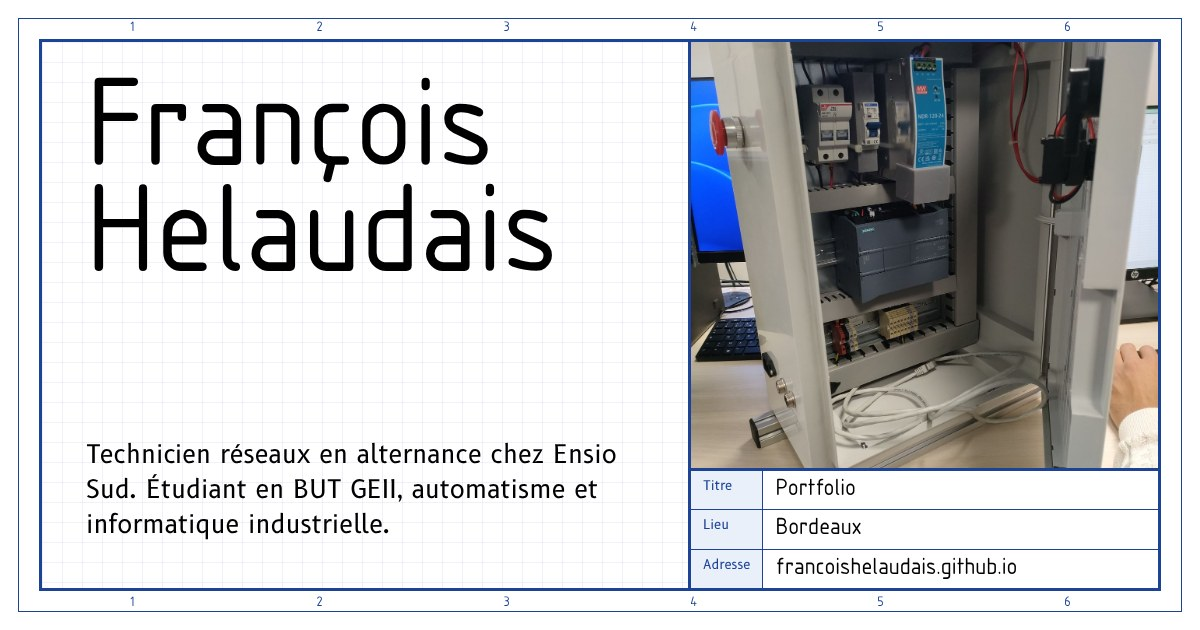
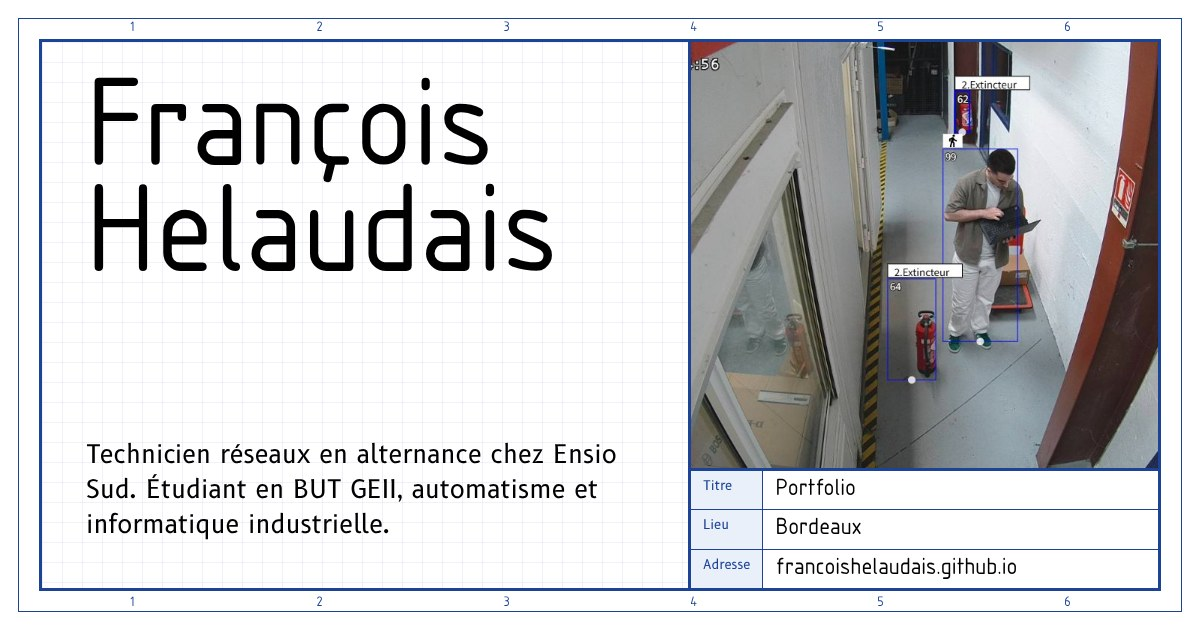
Photo d'ouverture : détection IA du stage, part réelle dans le kart, chiffres sourcés
- Ouverture : capture i-PRO annotée à la place de l'armoire Mugochaud
- Kart : mes sections d'après le DDC, chiffres repris du dossier
- Retrait du banc de contrôle d'accès (pas mon travail)
- SAE : programmation en cours ; aperçu de lien et CV mis à jour

Claude-Session: https://claude.ai/code/session_017d2tFZiNhoULnYTVToUJgT

Changed region(s): [[0.555, 0.0603, 0.9867, 0.754]]

diff --git a/index.html b/index.html
@@ -473,6 +473,9 @@ footer { padding: 26px 0 40px; font-size: 13px; color: var(--annot); display: fl
 
 .ac-niv { display: block; font-family: var(--texte); font-size: 11.5px; color: var(--annot); margin-top: 2px; }
 
+.hero-ia .repere text { font-size: 34px; }
+.hero-ia .repere line, .hero-ia .repere circle.bulle { stroke-width: 3.5; }
+
 @media print {
   .barre nav, .actions, summary { display: none; }
   details > .detail { display: grid; }
@@ -523,24 +526,20 @@ footer { padding: 26px 0 40px; font-size: 13px; color: var(--annot); display: fl
 
     <div class="garde-vue">
       <figure>
-        <div class="vue">
-          <img src="photos/mugochaud-2.jpg" width="1200" height="1600" alt="Armoire électrique ouverte du projet Mugochaud : automate, alimentation, disjoncteurs, arrêt d'urgence et bornier." fetchpriority="high">
-          <svg viewBox="0 0 1200 1600" preserveAspectRatio="xMidYMid slice" aria-hidden="true">
-            <g class="repere"><line x1="480" y1="740" x2="700" y2="860"/><circle class="point" cx="480" cy="740" r="10"/><circle class="bulle" cx="700" cy="860" r="36"/><text x="700" y="862">1</text></g>
-            <g class="repere"><line x1="620" y1="420" x2="780" y2="300"/><circle class="point" cx="620" cy="420" r="10"/><circle class="bulle" cx="780" cy="300" r="36"/><text x="780" y="302">2</text></g>
-            <g class="repere"><line x1="380" y1="400" x2="330" y2="250"/><circle class="point" cx="380" cy="400" r="10"/><circle class="bulle" cx="330" cy="250" r="36"/><text x="330" y="252">3</text></g>
-            <g class="repere"><line x1="80" y1="430" x2="150" y2="640"/><circle class="point" cx="80" cy="430" r="10"/><circle class="bulle" cx="150" cy="640" r="36"/><text x="150" y="642">4</text></g>
-            <g class="repere"><line x1="530" y1="930" x2="640" y2="1080"/><circle class="point" cx="530" cy="930" r="10"/><circle class="bulle" cx="640" cy="1080" r="36"/><text x="640" y="1082">5</text></g>
+        <div class="vue hero-ia">
+          <img src="photos/stage-ipro-detection.jpg" width="1017" height="568" alt="Image d'une caméra i-PRO pendant le stage : deux extincteurs détectés par le modèle que j'ai entraîné, à 62 et 64 % de confiance, et une personne détectée à 99 %." fetchpriority="high">
+          <svg viewBox="0 0 1017 568" preserveAspectRatio="xMidYMid slice" aria-hidden="true">
+            <g class="repere"><line x1="592" y1="100" x2="430" y2="70"/><circle class="point" cx="592" cy="100" r="8"/><circle class="bulle" cx="430" cy="70" r="30"/><text x="430" y="72">1</text></g>
+            <g class="repere"><line x1="540" y1="400" x2="380" y2="470"/><circle class="point" cx="540" cy="400" r="8"/><circle class="bulle" cx="380" cy="470" r="30"/><text x="380" y="472">2</text></g>
+            <g class="repere"><line x1="650" y1="230" x2="748" y2="300"/><circle class="point" cx="650" cy="230" r="8"/><circle class="bulle" cx="748" cy="300" r="30"/><text x="748" y="302">3</text></g>
           </svg>
         </div>
         <figcaption>
-          <p class="vue-titre">Armoire de commande du projet Mugochaud</p>
+          <p class="vue-titre">Détection par IA embarquée, caméra i-PRO, stage 2026</p>
           <ol class="legende">
-            <li><b>1</b>Automate Siemens S7-1200</li>
-            <li><b>2</b>Alimentation</li>
-            <li><b>3</b>Disjoncteurs</li>
-            <li><b>4</b>Arrêt d'urgence</li>
-            <li><b>5</b>Bornier</li>
+            <li><b>1</b>Extincteur appris&nbsp;: 62&nbsp;%</li>
+            <li><b>2</b>Extincteur appris&nbsp;: 64&nbsp;%</li>
+            <li><b>3</b>Personne, classe native&nbsp;: 99&nbsp;%</li>
           </ol>
         </figcaption>
       </figure>
@@ -600,8 +599,8 @@ footer { padding: 26px 0 40px; font-size: 13px; color: var(--annot); display: fl
 
   <article class="projet" id="stage">
     <figure class="projet-media">
-      <a href="photos/stage-ipro-detection.jpg"><img src="photos/stage-ipro-detection.jpg" width="1017" height="568" loading="lazy" alt="Image de la caméra i-PRO : deux extincteurs détectés par le modèle entraîné, avec 62 et 64 % de confiance, et une personne détectée à 99 %."></a>
-      <figcaption>Extincteurs détectés par la caméra i-PRO après entraînement</figcaption>
+      <a href="photos/stage-hanwha-canettes.jpg"><img src="photos/stage-hanwha-canettes.jpg" width="504" height="600" loading="lazy" alt="Logiciel WiseDetector : une canette encadrée pour l'apprentissage d'une nouvelle classe."></a>
+      <figcaption>Apprentissage d'une canette sous WiseDetector (Hanwha). La détection i-PRO est en photo d'ouverture.</figcaption>
     </figure>
     <div>
       <h3>Détection d'objets par IA embarquée sur caméras IP</h3>
@@ -641,10 +640,8 @@ footer { padding: 26px 0 40px; font-size: 13px; color: var(--annot); display: fl
             </ul>
           </div>
           <div class="vignettes">
-            <figure><a href="photos/stage-hanwha-canettes.jpg"><img src="photos/stage-hanwha-canettes.jpg" width="504" height="600" loading="lazy" alt="Logiciel WiseDetector : une canette encadrée pour l'apprentissage."></a><figcaption>Étiquetage d'une canette sous WiseDetector</figcaption></figure>
             <figure><a href="photos/stage-genetec.jpg"><img src="photos/stage-genetec.jpg" width="1351" height="715" loading="lazy" alt="Genetec Security Desk : liste d'événements « Objet détecté dans le champ » et image de la caméra."></a><figcaption>Détections remontées dans Genetec Security Desk</figcaption></figure>
-            <figure><a href="photos/stage-controle-acces.jpg"><img src="photos/stage-controle-acces.jpg" width="1600" height="1200" loading="lazy" alt="Banc de contrôle d'accès : alimentation, module Genetec Synergis Cloud Link et contrôleur HID VertX câblés sur un panneau."></a><figcaption>Banc de contrôle d'accès du pôle : Synergis Cloud Link et contrôleur VertX</figcaption></figure>
-          </div>
+            </div>
         </div>
       </details>
       <div class="docs">
@@ -676,7 +673,7 @@ footer { padding: 26px 0 40px; font-size: 13px; color: var(--annot); display: fl
       </ol>
       <div class="etat">
         <p><b>Fait</b>Grafcets de conduite, de production de la station et du robot, et de prise d'origine du robot, en niveaux 1 et 2. Table des variables des deux automates.</p>
-        <p class="suite"><b>En cours</b>Programmation en Ladder et essais sur la station.</p>
+        <p class="suite"><b>En cours</b>Programmation en Ladder, puis essais sur la station.</p>
       </div>
       <details>
         <summary>Cahier des charges et choix de conception</summary>
@@ -860,10 +857,10 @@ END_IF;</code></pre>
       <h3>Kart à hélice télécommandé en infrarouge</h3>
       <p class="contexte">2025, BUT GEII 1<sup>re</sup> année, équipe de huit</p>
       <ul class="but" aria-label="Compétences du BUT mobilisées"><li class="concevoir"><a href="#but-concevoir">Concevoir</a></li><li class="verifier"><a href="#but-verifier">Vérifier</a></li><li class="manager"><a href="#but-manager">Manager</a></li></ul>
-      <p class="resume">Un kart miniature propulsé par une hélice, piloté par une télécommande infrarouge qui encode direction et vitesse selon le protocole NEC. J'ai conçu sous ARES l'architecture de la carte récepteur, vérifié l'intégration mécanique et mené les mesures à l'oscilloscope.</p>
+      <p class="resume">Un kart miniature propulsé par une hélice, piloté par une télécommande infrarouge qui encode direction et vitesse selon le protocole NEC. Dans le dossier de conception, rédigé à plusieurs, j'ai écrit le programme de l'émetteur, le plan mécanique du récepteur sous ARES, le dimensionnement du moteur, des LED et de la batterie, et la coupure de la propulsion en cas de perte du signal.</p>
       <div class="cotes">
-        <div class="cote"><span class="valeur">423 min</span><span class="ligne"></span><span class="sens">d'autonomie au minimum pour l'émetteur</span></div>
-        <div class="cote"><span class="valeur">0,2 à 2,4 %</span><span class="ligne"></span><span class="sens">d'erreur sur les commandes de direction et de vitesse</span></div>
+        <div class="cote"><span class="valeur">5,6 h</span><span class="ligne"></span><span class="sens">d'autonomie calculée pour l'émetteur, marge de 20 % incluse, exigence 1 h</span></div>
+        <div class="cote"><span class="valeur">52,4 mA</span><span class="ligne"></span><span class="sens">de consommation calculée pour l'émetteur, sur batterie LiPo 2S de 350 mAh</span></div>
       </div>
       <details>
         <summary>Cahier des charges et matériel</summary>
@@ -886,7 +883,7 @@ END_IF;</code></pre>
       <div class="docs">
         <h4>Documents du projet</h4>
         <ul>
-          <li><a href="documents/kart-dossier-conception.pdf"><span class="doc-titre">Dossier de conception (DDC)</span><span class="doc-info">PDF, 85 pages</span><span class="doc-preuve">Concevoir : architecture de l'émetteur et du récepteur, choix justifiés face au cahier des charges. Rédigé en équipe.</span></a></li>
+          <li><a href="documents/kart-dossier-conception.pdf"><span class="doc-titre">Dossier de conception (DDC)</span><span class="doc-info">PDF, 85 pages</span><span class="doc-preuve">Concevoir : rédigé en équipe. Mes sections : programme de l'émetteur, mécanique du récepteur, dimensionnement du moteur, des LED et de la batterie.</span></a></li>
           <li><a href="documents/kart-dossier-fabrication-recepteur.pdf"><span class="doc-titre">Dossier de fabrication du récepteur (DDF)</span><span class="doc-info">PDF, 11 pages</span><span class="doc-preuve">Concevoir : fabrication de la carte récepteur, co-rédigé.</span></a></li>
           <li><a href="documents/kart-dossier-fabrication-emetteur.pdf"><span class="doc-titre">Dossier de fabrication de l'émetteur (DDF)</span><span class="doc-info">PDF, 13 pages</span><span class="doc-preuve">Concevoir : fabrication de la télécommande, co-rédigé.</span></a></li>
         </ul>
@@ -1028,7 +1025,7 @@ void loop() { lire_tram_reseau(); }</code></pre>
             <p class="ac-code">AC11.02<span class="ac-niv">niveau 1</span></p>
             <div>
               <p class="ac-lib">Réaliser un prototype pour des solutions techniques matériel et/ou logiciel</p>
-              <p class="ac-preuve">Carte récepteur du kart, robot Mini-Sumo, bibliothèques C++ du robot guidé par caméra.</p>
+              <p class="ac-preuve">Programme de l'émetteur et plan mécanique du récepteur du kart, robot Mini-Sumo, bibliothèques C++ du robot guidé par caméra.</p>
               <p class="ac-liens"><a class="preuve-lien projet" href="#kart">Kart</a><a class="preuve-lien projet" href="#sumo">Mini-Sumo</a><a class="preuve-lien projet" href="#vision">Robot guidé par caméra</a></p>
             </div>
           </li>
@@ -1090,8 +1087,8 @@ void loop() { lire_tram_reseau(); }</code></pre>
             <p class="ac-code">AC12.01<span class="ac-niv">niveau 1</span></p>
             <div>
               <p class="ac-lib">Appliquer une procédure d'essais</p>
-              <p class="ac-preuve">Essais mécaniques et validation de la coupure de la batterie à 6,7 V sur le Mini-Sumo. Mesures à l'oscilloscope des commandes du kart.</p>
-              <p class="ac-liens"><a class="preuve-lien projet" href="#sumo">Mini-Sumo</a><a class="preuve-lien projet" href="#kart">Kart</a></p>
+              <p class="ac-preuve">Essais mécaniques et validation de la coupure de la batterie à 6,7 V sur le Mini-Sumo.</p>
+              <p class="ac-liens"><a class="preuve-lien projet" href="#sumo">Mini-Sumo</a><a class="preuve-lien pdf" href="documents/mini-sumo-dossier-fabrication.pdf">DDF du Mini-Sumo<span class="sr"> (PDF)</span></a></p>
             </div>
           </li>
           <li class="ac">
